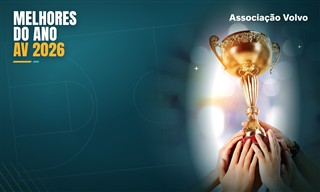
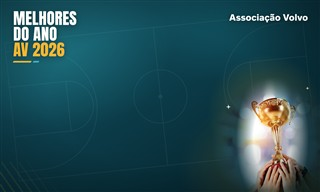
Artes: troféu menor (tamanho da estrela) e números de referência na página de apresentação

diff --git a/artes/index.html b/artes/index.html
@@ -29,6 +29,15 @@
   .thumbs button { flex: 0 0 auto; width: 120px; border: 2px solid transparent; border-radius: 6px; padding: 0; background: none; cursor: pointer; opacity: .55; }
   .thumbs button.on { border-color: var(--gold); opacity: 1; }
   .thumbs img { display: block; width: 100%; border-radius: 4px; }
+  /* número de referência de cada arte (aparece só na página, não sai na imagem para impressão) */
+  .pic { position: relative; max-width: 100%; min-height: 0; display: flex; }
+  .num { position: absolute; left: 16px; bottom: 16px; min-width: 80px; height: 80px; padding: 0 18px;
+    border-radius: 40px; display: grid; place-items: center; font-family: 'Anton', Impact, sans-serif; font-size: 48px; line-height: 1;
+    color: #0b0d12; background: var(--gold); box-shadow: 0 10px 40px rgba(0,0,0,.5); border: 4px solid #fff; pointer-events: none; }
+  .thumbs button { position: relative; }
+  .thumbs button span { position: absolute; left: 6px; top: 6px; min-width: 26px; height: 26px; border-radius: 13px; display: grid; place-items: center;
+    font-family: 'Anton', Impact, sans-serif; font-size: 16px; color: #0b0d12; background: var(--gold); }
+  @media (max-width: 640px) { .num { left: 8px; bottom: 8px; min-width: 44px; height: 44px; font-size: 26px; padding: 0 10px; border-width: 3px; } }
   @media (max-width: 640px) {
     header { padding: 10px 16px; } header h1 { font-size: 20px; }
     main { padding: 8px 16px; } .nav { width: 40px; height: 40px; font-size: 20px; top: auto; bottom: -6px; transform: none; }
@@ -39,7 +48,7 @@
 <header><h1>Melhores do Ano <span>AV 2026</span> · Artes</h1><div class="count" id="count"></div></header>
 <main>
   <button class="nav prev" id="prev" aria-label="Anterior">‹</button>
-  <figure><img id="img" alt=""><figcaption><b id="name"></b><small id="info"></small><a class="dl" id="dl" download>Baixar imagem</a></figcaption></figure>
+  <figure><div class="pic"><img id="img" alt=""><span class="num" id="num"></span></div><figcaption><b id="name"></b><small id="info"></small><a class="dl" id="dl" download>Baixar imagem</a></figcaption></figure>
   <button class="nav next" id="next" aria-label="Próxima">›</button>
 </main>
 <nav class="thumbs" id="thumbs"></nav>
@@ -55,11 +64,11 @@
   ];
   const $ = id => document.getElementById(id);
   let cur = 0;
-  $('thumbs').innerHTML = ARTES.map((a, i) => `<button data-i="${i}" aria-label="${a[1]}"><img src="miniaturas/${a[0].replace('.png', '.jpg')}" alt=""></button>`).join('');
+  $('thumbs').innerHTML = ARTES.map((a, i) => `<button data-i="${i}" aria-label="Arte ${i + 1}: ${a[1]}"><img src="miniaturas/${a[0].replace('.png', '.jpg')}" alt=""><span>${i + 1}</span></button>`).join('');
   function show(i) {
     cur = (i + ARTES.length) % ARTES.length;
     const [f, n, d] = ARTES[cur];
-    $('img').src = f; $('img').alt = n; $('name').textContent = n; $('info').textContent = d;
+    $('img').src = f; $('img').alt = n; $('name').textContent = 'Arte ' + (cur + 1) + ' · ' + n; $('num').textContent = cur + 1; $('info').textContent = d;
     $('dl').href = f; $('count').textContent = (cur + 1) + ' / ' + ARTES.length;
     document.querySelectorAll('.thumbs button').forEach((b, k) => b.classList.toggle('on', k === cur));
     document.querySelector('.thumbs .on').scrollIntoView({ block: 'nearest', inline: 'center' });

diff --git a/artes/banner-5x3-trofeu.html b/artes/banner-5x3-trofeu.html
@@ -35,15 +35,17 @@
     -webkit-mask-image: linear-gradient(225deg, transparent 30%, #000 85%); mask-image: linear-gradient(225deg, transparent 30%, #000 85%); }
 
   /* foto real: mãos erguendo o troféu, presa ao canto inferior direito e se fundindo com o fundo */
-  .glow { position: absolute; right: 60px; bottom: 380px; width: 900px; height: 900px; border-radius: 50%;
+  .glow { position: absolute; right: -40px; bottom: 120px; width: 760px; height: 760px; border-radius: 50%;
     background: radial-gradient(circle, rgba(255,214,120,.38), rgba(242,182,50,.12) 40%, transparent 68%); }
   .photowrap { position: absolute; right: 0; bottom: 0; width: 1150px; height: 1200px; isolation: isolate;
-    -webkit-mask-image: radial-gradient(58% 60% at 58% 56%, #000 66%, transparent 100%); mask-image: radial-gradient(58% 60% at 58% 56%, #000 66%, transparent 100%); }
+    transform: scale(.62); transform-origin: 100% 100%; /* troféu do tamanho da estrela das outras artes */
+    -webkit-mask-image: radial-gradient(58% 60% at 58% 58%, #000 62%, transparent 92%); mask-image: radial-gradient(58% 60% at 58% 58%, #000 62%, transparent 92%); }
   .photowrap > div { position: absolute; left: 0; right: 0; }
   /* a foto (a taça fica perto do topo da foto original) */
-  .photo { top: 140px; bottom: 0; background: url('../img/parabens.jpg') right 0 top 0 / auto 1060px no-repeat; filter: saturate(1.1) contrast(1.06); }
+  .photo { top: 200px; bottom: 0; background: url('../img/parabens.jpg') right 0 top 0 / auto 1060px no-repeat; filter: saturate(1.1) contrast(1.06);
+    -webkit-mask-image: linear-gradient(to bottom, transparent 0, #000 45px); mask-image: linear-gradient(to bottom, transparent 0, #000 45px); }
   /* continuação do fundo desfocado acima da foto (faixa de cima da própria foto, esticada e borrada) */
-  .ext { top: -60px; height: 230px; background: url('../img/parabens.jpg') right 0 top 0 / 1569px 9000px no-repeat; filter: blur(22px) saturate(1.1); }
+  .ext { top: 0; height: 290px; background: url('../img/parabens.jpg') right 0 top 0 / 1569px 9000px no-repeat; filter: blur(22px) saturate(1.1); }
   /* tom petróleo por cima do desfoque claro da foto, sem cobrir a taça nem as mãos */
   .tint { top: 0; bottom: 0; mix-blend-mode: multiply; background: radial-gradient(32% 62% at 58% 55%, transparent 52%, rgba(10,55,68,.9) 100%); }
   .spark { position: absolute; background: #fff7d6; clip-path: polygon(50% 0, 60% 40%, 100% 50%, 60% 60%, 50% 100%, 40% 60%, 0 50%, 40% 40%); filter: drop-shadow(0 0 8px #ffe08a); }
@@ -53,8 +55,8 @@
   <div class="stripes"></div>
   <div class="glow"></div>
   <div class="photowrap"><div class="ext"></div><div class="photo"></div><div class="tint"></div></div>
-  <i class="spark" style="right:760px;bottom:760px;width:30px;height:30px"></i>
-  <i class="spark" style="right:120px;bottom:900px;width:22px;height:22px"></i>
+  <i class="spark" style="right:560px;bottom:520px;width:30px;height:30px"></i>
+  <i class="spark" style="right:70px;bottom:640px;width:22px;height:22px"></i>
   <div class="vignette"></div>
   <img class="logo" src="../img/logo-associacao-volvo.png" alt="Associação Volvo">
   <div class="title">Melhores<br>do ano<span class="av">AV 2026</span><span class="bar"></span></div>
